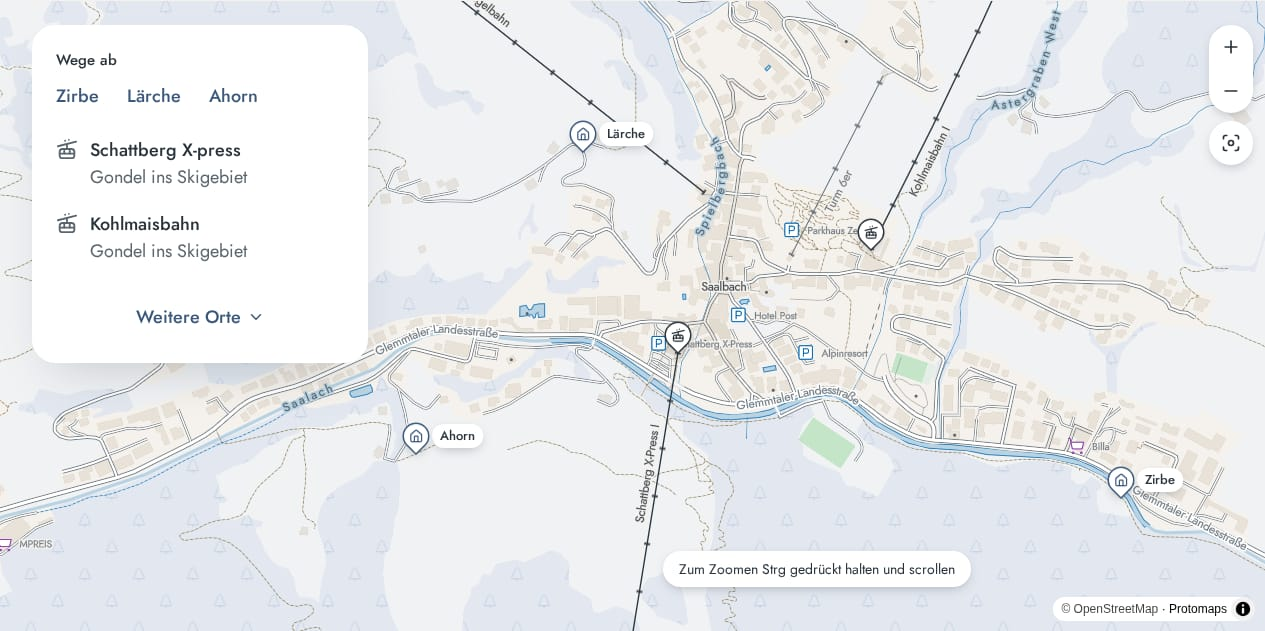
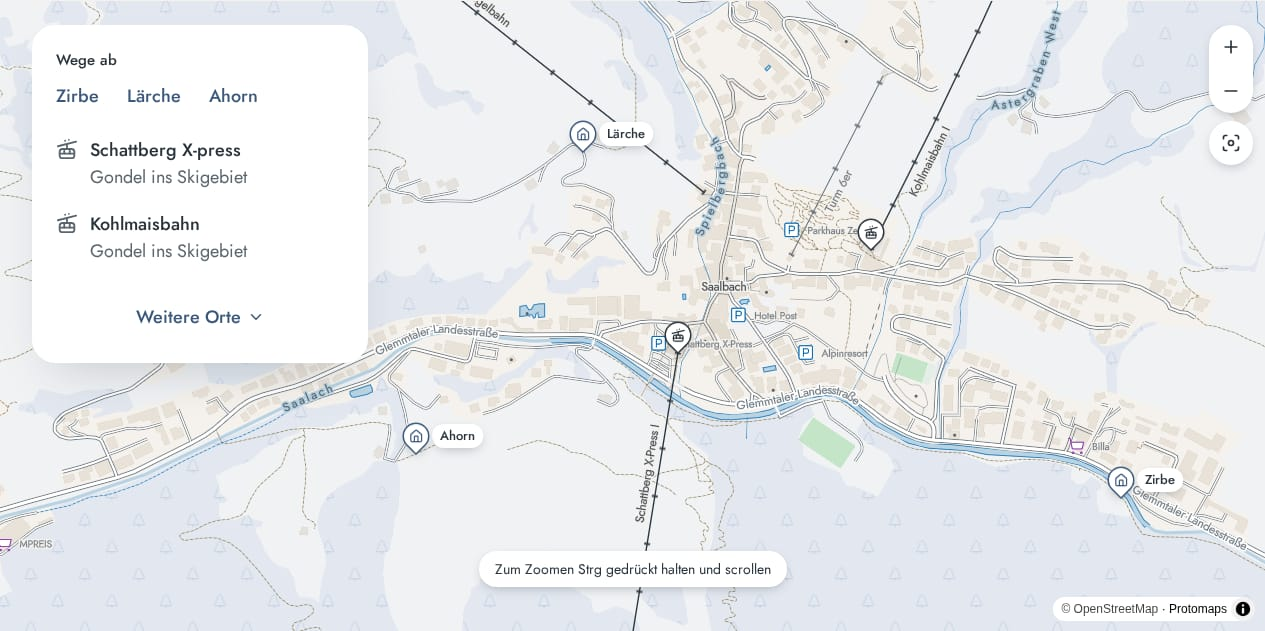
Centre the map's hint on the map, and test it by touch on a phone
Centred in the room beside the panel, the hint looked off-centre on a wide
map. It now stands in the map's middle and moves right only where the map is
too narrow for a pill of 20rem beside the panel. The test reads the hint in
one frame while fully shown, at four widths, and on the phone after a
one-finger swipe.

Changed region(s): [[0.37, 0.8732, 0.7708, 0.9334]]

diff --git a/e2e/map.spec.ts b/e2e/map.spec.ts
@@ -126,36 +126,79 @@ test('a second click on the chosen apartment clears the choice', async ({ page }
   await expect(panel(page).getByRole('radio', { name: 'Lärche' })).not.toBeChecked();
 });
 
-for (const width of [1280, 320]) {
-  test(`at ${width} px the map's hint is a pill clear of its controls, the map not dimmed`, async ({
-    page,
-    isMobile,
-  }) => {
-    test.skip(isMobile, 'A phone has no mouse wheel; its hint takes the same place.');
+// One finger moving up over the map, as a phone's scroll of the page starts. WebKit has no Touch
+// constructor, so the events carry plain touches, which is all MapLibre reads.
+const swipe = (page: Page) =>
+  page.locator('.maplibregl-canvas').evaluate((canvas) => {
+    const { left, top, width } = canvas.getBoundingClientRect();
+    for (const [type, y] of [
+      ['touchstart', 120],
+      ['touchmove', 80],
+      ['touchend', 80],
+    ] as const) {
+      const touch = { identifier: 1, target: canvas, clientX: left + width / 2, clientY: top + y };
+      const touches = type === 'touchend' ? [] : [touch];
+      const event = new Event(type, { bubbles: true, cancelable: true });
+      Object.assign(event, { touches, targetTouches: touches, changedTouches: [touch] });
+      canvas.dispatchEvent(event);
+    }
+  });
+
+test("the map's hint is a pill clear of its controls, the map not dimmed", async ({
+  page,
+  isMobile,
+}) => {
+  const widths = isMobile ? [page.viewportSize()!.width] : [1280, 1024, 768, 320];
+  for (const width of widths) {
     await page.setViewportSize({ width, height: 900 });
     await openMap(page);
-    const hint = page.locator('.maplibregl-cooperative-gesture-screen');
-    await page.locator('.maplibregl-canvas').hover({ position: { x: width / 2, y: 100 } });
-    // A wheel while the page still scrolls the map into view can miss it.
+    if (!isMobile)
+      await page.locator('.maplibregl-canvas').hover({ position: { x: width / 2, y: 100 } });
+    // The hint fades soon after the gesture, so it is read in one frame while fully shown. A
+    // gesture while the page still scrolls the map into view can miss it.
+    const read = () =>
+      page.evaluate(() => {
+        const box = (element: Element) => {
+          const { left, right, top, bottom } = element.getBoundingClientRect();
+          return { left, right, top, bottom };
+        };
+        const screen = document.querySelector('.maplibregl-cooperative-gesture-screen')!;
+        const pill = [...screen.children].find((child) => child.checkVisibility())!;
+        return {
+          opacity: getComputedStyle(screen).opacity,
+          ground: getComputedStyle(screen).backgroundColor,
+          text: pill.textContent,
+          pill: box(pill),
+          frame: box(document.querySelector('.map-frame')!),
+          controls: ['.map-panel', '.map-zoom', '.maplibregl-ctrl-attrib'].map((selector) =>
+            box(document.querySelector(selector)!),
+          ),
+        };
+      });
+    let seen!: Awaited<ReturnType<typeof read>>;
     await expect(async () => {
-      await page.mouse.wheel(0, 40);
-      await expect(hint).toHaveClass(/maplibregl-show/, { timeout: 1000 });
+      await (isMobile ? swipe(page) : page.mouse.wheel(0, 40));
+      seen = await read();
+      expect(seen.opacity).toBe('1');
     }).toPass();
-    await expect(hint).toHaveCSS('background-color', 'rgba(0, 0, 0, 0)');
-    const pill = (await hint.locator('div:visible').boundingBox())!;
-    for (const control of ['.map-panel', '.map-zoom', '.maplibregl-ctrl-attrib']) {
-      const box = (await page.locator(control).boundingBox())!;
-      const apart =
-        pill.x + pill.width <= box.x ||
-        box.x + box.width <= pill.x ||
-        pill.y + pill.height <= box.y ||
-        box.y + box.height <= pill.y;
-      expect(apart, `the hint clear of ${control}`).toBe(true);
-    }
-    expect(pill.x).toBeGreaterThanOrEqual(0);
-    expect(pill.x + pill.width).toBeLessThanOrEqual(width);
-  });
-}
+    const { pill, frame, controls } = seen;
+    expect(seen.text).toMatch(isMobile ? /two fingers/ : /Ctrl/);
+    expect(seen.ground).toBe('rgba(0, 0, 0, 0)');
+    for (const box of controls)
+      expect(
+        pill.right <= box.left ||
+          box.right <= pill.left ||
+          pill.bottom <= box.top ||
+          box.bottom <= pill.top,
+        `the hint at ${width} px clear of ${JSON.stringify(box)}`,
+      ).toBe(true);
+    expect(pill.left).toBeGreaterThanOrEqual(frame.left);
+    expect(pill.right).toBeLessThanOrEqual(frame.right);
+    // A wide map has room for it in its middle beside the panel.
+    if (width === 1280)
+      expect(Math.abs(pill.left + pill.right - frame.left - frame.right)).toBeLessThan(2);
+  }
+});
 
 // Once the fold has finished: a view the fold moved would be moving by then.
 const folded = (page: Page) =>

diff --git a/src/app/location-map.ts b/src/app/location-map.ts
@@ -599,8 +599,8 @@ function flavor(p: ReturnType<typeof palette>): Flavor {
       outline-offset: -3px;
     }
 
-    /* The hint to zoom with Ctrl or move with two fingers: a pill above the attribution, from
-       48rem beside the panel, the map not dimmed. */
+    /* The hint to zoom with Ctrl or move with two fingers: a pill above the attribution, in the
+       map's middle, the map not dimmed. */
     .location-map .maplibregl-cooperative-gesture-screen {
       inset: auto 3rem 2.75rem;
       padding: 0;
@@ -611,8 +611,10 @@ function flavor(p: ReturnType<typeof palette>): Flavor {
       line-height: 1.25rem;
       text-align: center;
 
+      /* Its middle 34rem from the left at least, so that a pill of 20rem clears the panel's 23rem
+         by 1rem; on a wide map, the map's middle. */
       @media (min-width: 48rem) {
-        left: 26rem;
+        left: max(3rem, 71rem - 100%);
       }
 
       @media (prefers-reduced-motion: reduce) {
@@ -620,6 +622,7 @@ function flavor(p: ReturnType<typeof palette>): Flavor {
       }
 
       > div {
+        max-width: 20rem;
         padding: 0.5rem 1rem;
         border-radius: var(--radius-control);
         background: var(--color-surface);

diff --git a/DESIGN.md b/DESIGN.md
@@ -452,8 +452,9 @@ keyboard. In the sheet the apartments are indented under their entry at weight 4
   buttons take the site's focus ring.
 - **Zoom:** plus and minus as the site's round buttons in a white pill, level with the panel's top.
 - **Hint:** a scroll over the map without Ctrl, or one finger on a phone, shows how to move it as a
-  white pill above the attribution, from 48rem in the middle of the map beside the panel. The map is
-  not dimmed, so the page can be scrolled past it as past a picture.
+  white pill above the attribution, in the map's middle; where the map is too narrow for that beside
+  the panel, it moves right of it. The map is not dimmed, so the page can be scrolled past it as
+  past a picture.
 - **Routes:** a dashed accent line with a white casing, its dashes as long at every zoom, from the
   chosen apartment's point to each place's, the router's line joined to both; once a place is
   chosen, its route solid and as close as it fits, a white dot ringed in the accent at each end
